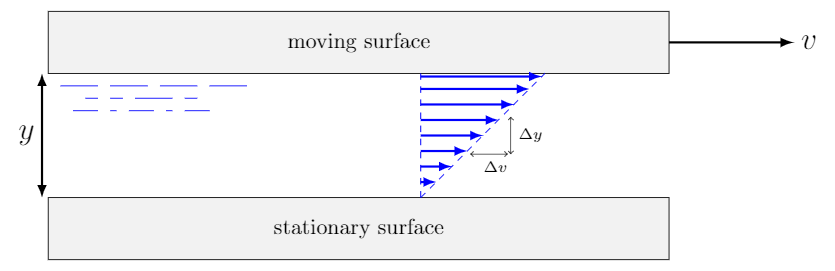
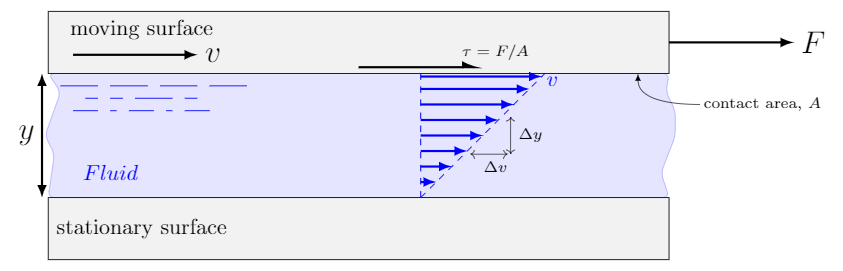
viscosity

diff --git a/teaching/Applied-Fluids/Notes/FluidProperties.md b/teaching/Applied-Fluids/Notes/FluidProperties.md
@@ -172,25 +172,43 @@ $$
 
 ## Viscosity
 
-A fluid's *viscosity* is a measure of the fluid's resistance to motion under an applied shear force.  When you stir a pot of honey the spoon generates the ``applied shear force``.  The difficulty in moving the spoon due to the fluid's resistance is a specific property of the honey, *i.e.* the honey's viscosity.  How is this fluid property *quantified*.
+A fluid's *viscosity* is a measure of the fluid's resistance to motion under an applied shear force.  When you stir a pot of honey the spoon generates the "applied shear force".  The difficulty in moving the spoon due to the fluid's resistance is a specific property of the honey, *i.e.* the honey's viscosity.  How is this fluid property *quantified*.
 
-We start of in the same way as every other fluids textbook.  Imagine two flat surfaces separated by the fluid of interest.  The plates are large so that we can ignore what is going on at the edges.  The lower surface is stationary while the upper surface moves at a fixed velocity $v$.  The distance between the surfaces (the thickness of the layer of fluid) is $y$.  Here is a picture of the setup I have in mind.
+We start off in the same way as every other fluids textbook.  Imagine two flat surfaces separated by the fluid of interest.  The plates are large so that we can ignore what is going on at the edges.  A force $F$ is applied to the upper surface in order for it to maintain a constant velocity $v$.  The lower surface remains stationary.  The distance between the surfaces (the thickness of the layer of fluid) is $y$.  Here is a picture of the setup I have in mind.
 
 <div class="photo" style="width: 500px;">
-  <img src="img\CouetteFLow.png" alt="Couette Flow">
+  <img src="img\CouetteFlow.png" alt="Couette Flow">
   <p>
   Velocity profile of a thin layer of fluid between to parallel plates (known as Couette Flow).
   </p>
 </div>
 
-So what is the fluid doing between these two plates; one stationary, one moving.
-Well, a basic condition, which we state without justification, is that a fluid in contact with a surface has the same velocity as that surface.  This is known as the *no-slip condition*.  Therefore, the velocity of the fluid in contact with the bottom plate is zero and the velocity of the fluid in contact with the top plate is $v$.
+The upper plate creates an applied shear stress of magnitude $\tau=F/A$, where $A$ is the contact area between the fluid and plate.  This applied shear stress continuously deforms the fluid.
 
-If the thickness of the fluid is small we can assume that the velocity increases from the lower stationary plate to the upper moving plate in a straight-line (linear) fashion.  This rate-of-change in velocity from the bottom plate to the top is known as the *shear rate* or *velocity gradient* and expressed as $\Delta v/\Delta y$ (*i.e.* it's the slope of the velocity profile).  The shear rate is sometimes written as $\dot{\gamma}$ (the Greek letter gamma with a dot (representing a derivative)) and has units $1/s$ (*i.e.* reciprocal seconds or inverse seconds).
+So what is the fluid doing between these two plates; one stationary, one moving. Well, a basic condition, which we state without justification, is that a fluid in contact with a surface has the same velocity as that surface.  This is known as the *no-slip condition*.  Therefore, the velocity of the fluid in contact with the bottom plate is zero and the velocity of the fluid in contact with the top plate is $v$.
+
+If the thickness of the fluid is small we can assume that the velocity increases from the lower stationary plate to the upper moving plate in a straight-line (linear) fashion.  This rate-of-change in velocity from the bottom plate to the top is known as the *shear rate* or *velocity gradient* or *strain* and expressed as $\Delta v/\Delta y$ (*i.e.* it's the slope of the velocity profile).  The shear rate is often written as $\dot{\gamma}$ (the Greek letter gamma with a dot--representing a derivative) and has units $1/s$ (*i.e.* reciprocal seconds or inverse seconds).
+
+The relation between the applied shear stress and the strain that develops in the fluid is a measure of the fluids viscosity.  For example, the external force required to generate the same upper-plate velocity in honey and water would be much larger for the honey (the honey is more viscous).
+
+In practice a series of measurements would be performed where the external force (applied shear stress) is varied and the resultant strain rates recorded.  Below is an example of such an experiment on Olive Oil.  Each data point (square) represents one such measurement.  For each applied shear stress (y-axis) there is one corresponding shear rate (x-axis).  
+
+<div class="photo" style="width: 500px;">
+  <img src="img\OliveOil.png" alt="Rheogram for Olive Oil">
+  <p>
+  Rheogram for Olive Oil -- a Newtonian fluid. Data from <a href="https://sites.google.com/site/jfsteffe/">Steffe</a>.
+  </p>
+</div>
+
+One readily observes a linear (straight-line) relationship between the stress and strain for this particular fluid.   A fluid that exhibits this type of behavior is known as *Newtonian* and the slope of the line corresponding to the data is known as the *dynamic* or *absolute viscosity*.  For a Newtonian fluid we therefore have
 
 $$
 \tau=\eta \left(\frac{\Delta v}{\Delta y}\right)=\eta \, \dot{\gamma}
 $$
+
+The Greek-letter $eta$ represents the dynamic viscosity and it has units of $\lbf\cdot s/\ft^2$ in the US system or $N\cdot s/\m^2$ in the SI system.  Coming back to our example of Olive Oil we see from line drawn on the above graph that it has a dynamic viscosity of $\eta_{\rm Olive Oil}=0.0363\,$N\cdot s/\m^2$.
+
+
 
 ## Pressure
 
